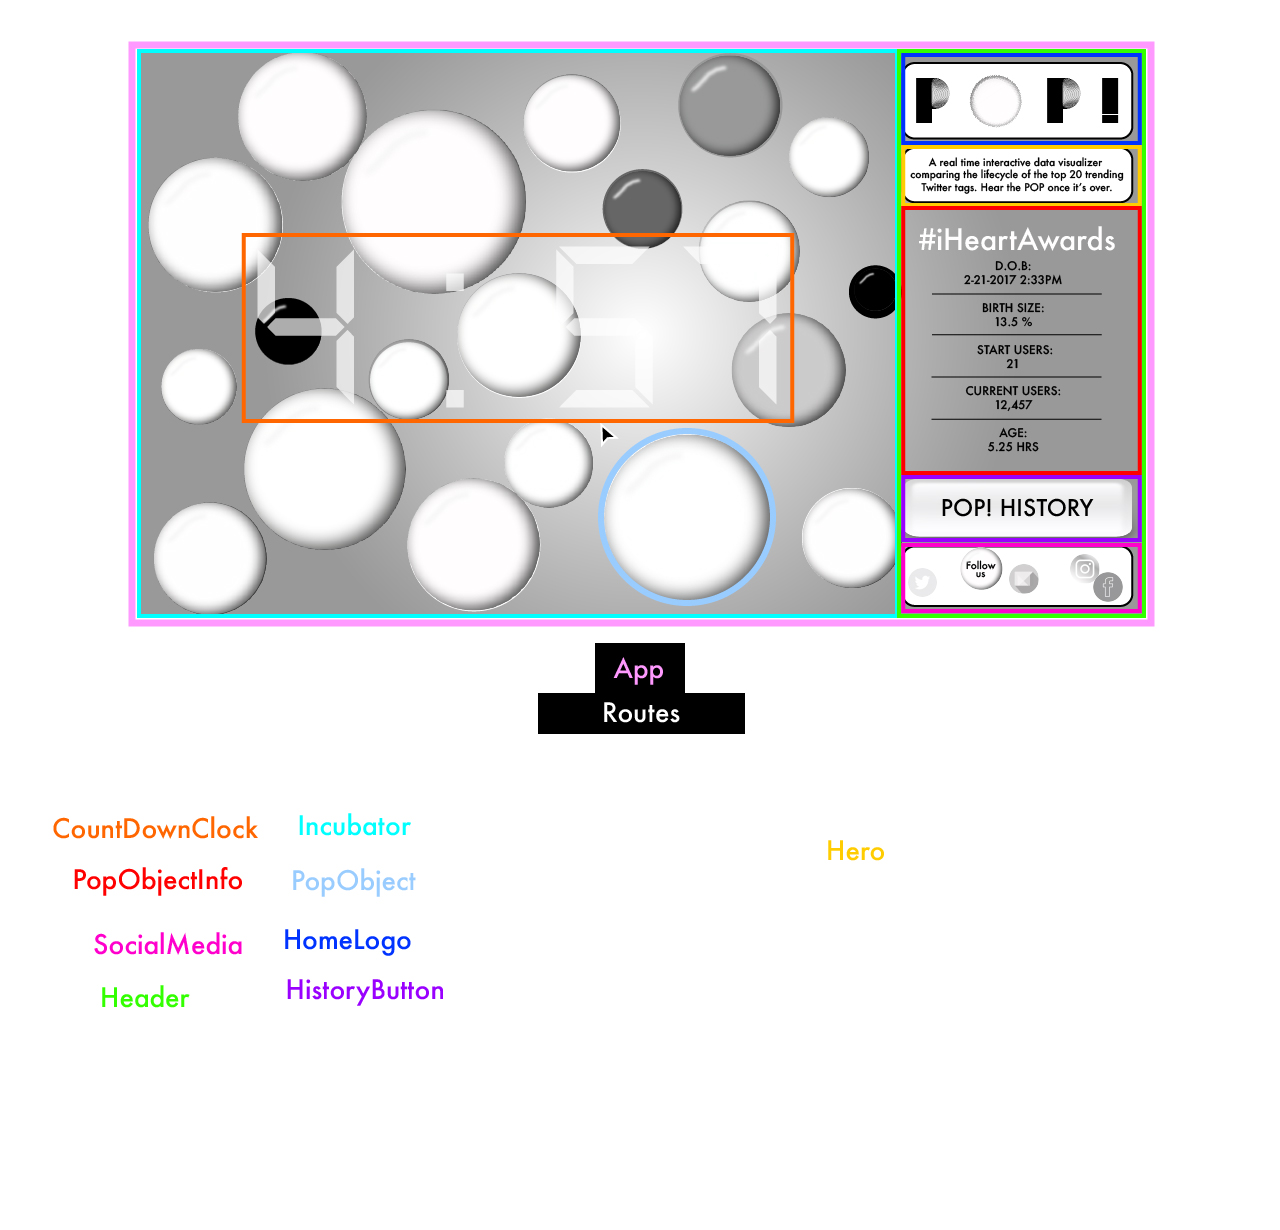
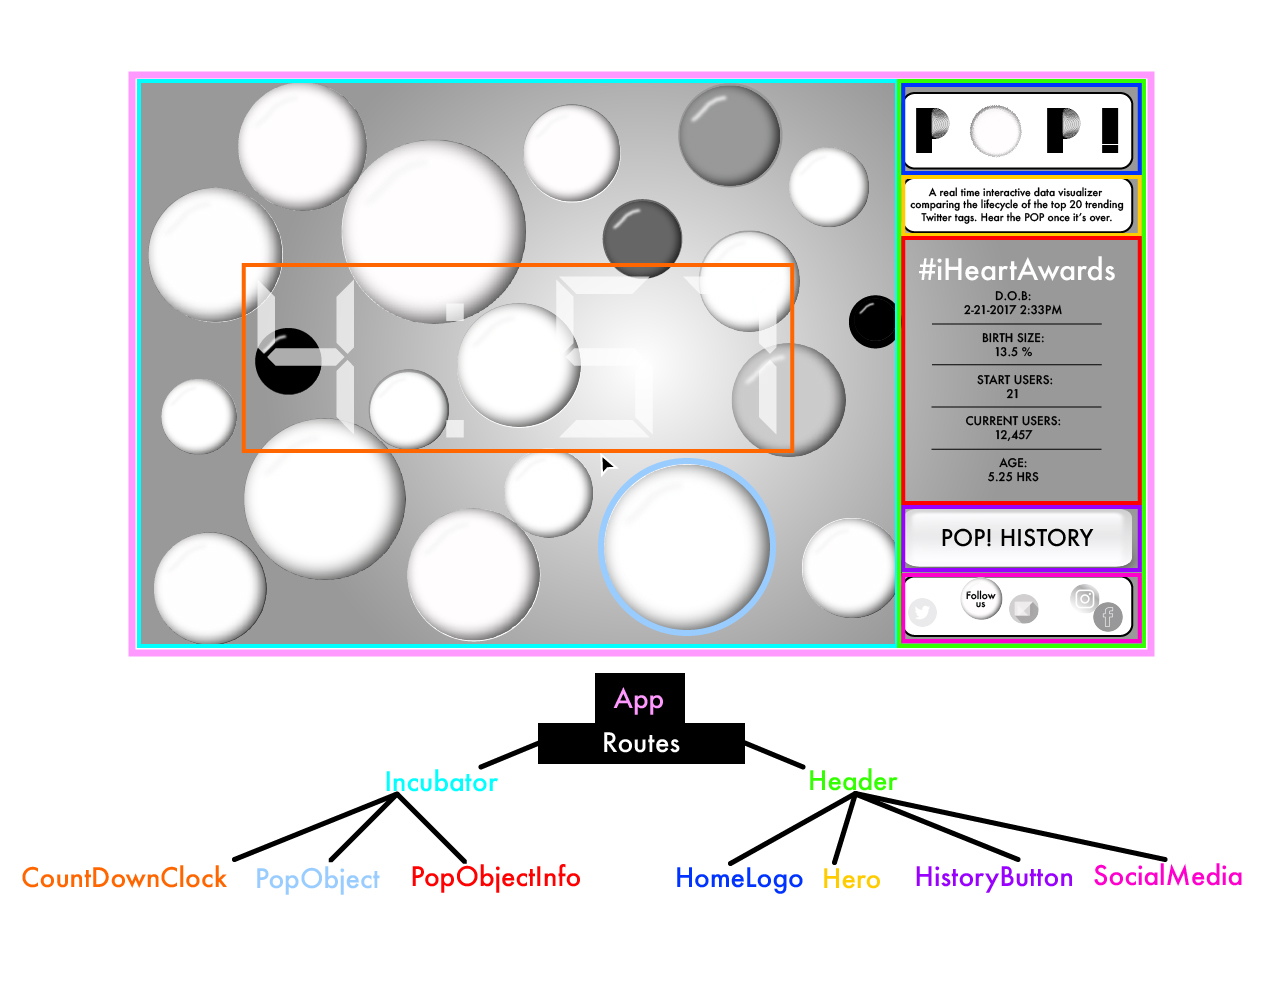
add routes to component-tree.jpg

diff --git a/README.md b/README.md
@@ -9,7 +9,7 @@
 
 #### Once an iteration is called and the tag is no longer within the current top 20 trend bracket, POP! The lifecycle is over. That Pop cycle’s POP! time and date will then be added to it’s Pop-file which then will finally be logged into a master database of all popped Pop-cycles. The user will then be able refer back to past POP!’s in the interactive master database. This data will include tag name, start date and time, start number of Twitter users, largest number of Twitter users, and bubble images including start percentage size, largest popularity size, iteration color with number of iterations, POP! size, date and time.
 
-## Prototypes
+## Prototyping
 ### Desktop
 ![PDF](img/readme/pop-desktop.jpg "Desktop Prototype")
 
